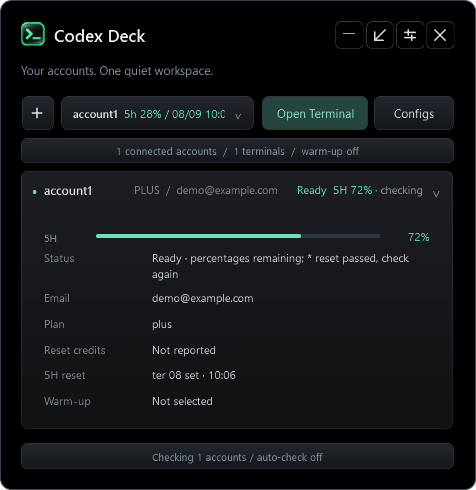
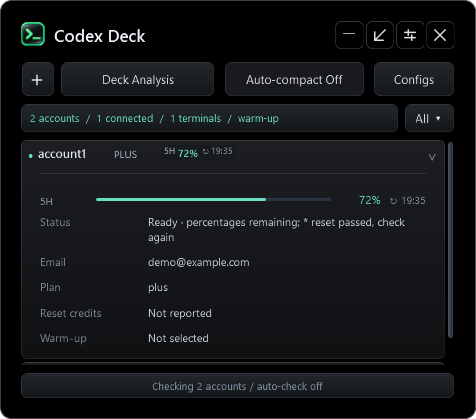
Refresh README and screenshots; refine desktop panel width

diff --git a/suite/Deck.Theme.xaml b/suite/Deck.Theme.xaml
@@ -1,4 +1,4 @@
-<Window xmlns="http://schemas.microsoft.com/winfx/2006/xaml/presentation" xmlns:x="http://schemas.microsoft.com/winfx/2006/xaml" Title="Codex Deck" Width="660" Height="540" MinWidth="300" MinHeight="150" WindowStyle="None" ResizeMode="CanResizeWithGrip" Background="#000000" Foreground="#EDF1F7" FontFamily="Segoe UI" FontSize="12" WindowStartupLocation="CenterScreen" UseLayoutRounding="True" SnapsToDevicePixels="True" TextOptions.TextFormattingMode="Display">
+<Window xmlns="http://schemas.microsoft.com/winfx/2006/xaml/presentation" xmlns:x="http://schemas.microsoft.com/winfx/2006/xaml" Title="Codex Deck" Width="660" Height="540" MinWidth="400" MinHeight="150" WindowStyle="None" ResizeMode="CanResizeWithGrip" Background="#000000" Foreground="#EDF1F7" FontFamily="Segoe UI" FontSize="12" WindowStartupLocation="CenterScreen" UseLayoutRounding="True" SnapsToDevicePixels="True" TextOptions.TextFormattingMode="Display">
  <Window.Resources>
   <Style TargetType="ContextMenu"><Setter Property="Background" Value="#141619"/><Setter Property="Foreground" Value="#E4E7EC"/><Setter Property="BorderBrush" Value="#363A41"/><Setter Property="BorderThickness" Value="1"/><Setter Property="Padding" Value="4"/><Setter Property="Template"><Setter.Value><ControlTemplate TargetType="ContextMenu"><Border Background="{TemplateBinding Background}" BorderBrush="{TemplateBinding BorderBrush}" BorderThickness="1" CornerRadius="7" Padding="{TemplateBinding Padding}"><StackPanel IsItemsHost="True"/></Border></ControlTemplate></Setter.Value></Setter></Style>
   <Style TargetType="MenuItem"><Setter Property="Foreground" Value="#E4E7EC"/><Setter Property="Padding" Value="12,9"/><Setter Property="Cursor" Value="Hand"/><Setter Property="Template"><Setter.Value><ControlTemplate TargetType="MenuItem"><Border x:Name="Surface" Background="Transparent" CornerRadius="4" Padding="{TemplateBinding Padding}"><ContentPresenter ContentSource="Header"/></Border><ControlTemplate.Triggers><Trigger Property="IsHighlighted" Value="True"><Setter TargetName="Surface" Property="Background" Value="#2C333C"/></Trigger><Trigger Property="IsEnabled" Value="False"><Setter Property="Opacity" Value="0.4"/></Trigger></ControlTemplate.Triggers></ControlTemplate></Setter.Value></Setter></Style>
@@ -29,7 +29,7 @@
     <StackPanel Orientation="Horizontal" VerticalAlignment="Center"><Image x:Name="AppLogo" Width="24" Height="24" Margin="0,0,9,0" RenderOptions.BitmapScalingMode="HighQuality"/><TextBlock x:Name="Brand" Text="Codex Deck" FontSize="17" FontWeight="SemiBold" VerticalAlignment="Center"/></StackPanel>
     <StackPanel Orientation="Horizontal" Grid.Column="1"><Button x:Name="MinimizeButton" Style="{StaticResource IconButton}" ToolTip="Minimize"><Path Width="12" Height="1" Stroke="#DDE2E7" StrokeThickness="1.5" Data="M 0,0 L 12,0"/></Button><Button x:Name="ModeButton" Style="{StaticResource IconButton}" ToolTip="Switch view"><Path Width="12" Height="12" Stretch="Fill" Stroke="#DDE2E7" StrokeThickness="1.5" StrokeStartLineCap="Round" StrokeEndLineCap="Round" Data="M 1,11 L 11,1 M 3,1 L 11,1 L 11,9"/></Button><Button x:Name="SettingsButton" Style="{StaticResource IconButton}" ToolTip="Settings"><Path Width="12" Height="12" Stretch="Fill" Stroke="#DDE2E7" StrokeThickness="1.5" StrokeStartLineCap="Round" StrokeEndLineCap="Round" Data="M 0,3 L 12,3 M 0,9 L 12,9 M 4,0 L 4,6 M 8,6 L 8,12"/></Button><Button x:Name="CloseButton" Style="{StaticResource IconButton}" ToolTip="Close to tray"><Path Width="12" Height="12" Stretch="Fill" Stroke="#DDE2E7" StrokeThickness="1.5" StrokeStartLineCap="Round" StrokeEndLineCap="Round" Data="M 1,1 L 11,11 M 11,1 L 1,11"/></Button></StackPanel>
    </Grid>
-   <Grid x:Name="LaunchBar" Margin="0,0,0,8"><Grid.ColumnDefinitions><ColumnDefinition Width="40"/><ColumnDefinition/><ColumnDefinition Width="154"/><ColumnDefinition Width="80"/></Grid.ColumnDefinitions><Button x:Name="NewButton" FontSize="23" Padding="0" Width="32" Height="34" VerticalAlignment="Center" ToolTip="New account"><Path Width="12" Height="12" Stretch="Fill" Stroke="#DDE2E7" StrokeThickness="1.5" Data="M 6,0 L 6,12 M 0,6 L 12,6"/></Button><Button x:Name="EfficiencyButton" Grid.Column="1" Content="Deck Analysis" ToolTip="Independent local efficiency analysis"/><Button x:Name="AutoCompactButton" Grid.Column="2" Content="Auto-compact Off" ToolTip="Enable auto-compaction for terminals opened next"/><Button x:Name="ConfigButton" Grid.Column="3" Content="Configs" Margin="0"/><ComboBox x:Name="AccountPicker" Visibility="Collapsed" Width="0" Height="0"/></Grid>
+   <Grid x:Name="LaunchBar" Margin="0,0,0,8"><Grid.ColumnDefinitions><ColumnDefinition Width="40"/><ColumnDefinition/><ColumnDefinition Width="154"/><ColumnDefinition Width="80"/></Grid.ColumnDefinitions><Button x:Name="NewButton" FontSize="23" Padding="0" Width="32" Height="34" VerticalAlignment="Center" ToolTip="New account"><Path Width="12" Height="12" Stretch="Fill" Stroke="#DDE2E7" StrokeThickness="1.5" Data="M 6,0 L 6,12 M 0,6 L 12,6"/></Button><Button x:Name="EfficiencyButton" Grid.Column="1" Content="Deck Analysis" ToolTip="Independent local efficiency analysis"/><Button x:Name="AutoCompactButton" Grid.Column="2" Content="Auto-compact Off" Margin="4,0,10,0" ToolTip="Enable auto-compaction for terminals opened next"/><Button x:Name="ConfigButton" Grid.Column="3" Content="Configs" Margin="0"/><ComboBox x:Name="AccountPicker" Visibility="Collapsed" Width="0" Height="0"/></Grid>
    <Grid Margin="0,0,0,8"><Grid.ColumnDefinitions><ColumnDefinition Width="*"/><ColumnDefinition Width="Auto"/></Grid.ColumnDefinitions><Button x:Name="SummaryButton" Padding="8,5" Margin="0,0,6,0" HorizontalContentAlignment="Stretch"><Grid x:Name="SummaryViewport" MinHeight="14" ClipToBounds="True"><TextBlock x:Name="Summary" HorizontalAlignment="Left" Foreground="#8493AA" FontSize="10" TextWrapping="NoWrap"><TextBlock.RenderTransform><TranslateTransform/></TextBlock.RenderTransform></TextBlock><TextBlock x:Name="SummaryEllipsis" Text="…" HorizontalAlignment="Right" Background="#181A1D" Foreground="#8493AA" Visibility="Collapsed"/></Grid></Button><Button x:Name="FilterButton" Grid.Column="1" Content="All ▾" Padding="10,5" Margin="0" ToolTip="Filter visible accounts by plan"/></Grid>
   </StackPanel>
   <Button x:Name="StatusButton" DockPanel.Dock="Bottom" Padding="8,5" Margin="0,8,0,0"><TextBlock x:Name="StatusLine" FontSize="10" Foreground="#8493AA" TextAlignment="Center"/></Button>

diff --git a/README.md b/README.md
@@ -2,8 +2,8 @@
   <img src="suite/deck/assets/codex-deck.png" width="88" alt="Codex Deck">
 </p>
 <h1 align="center">Codex Deck</h1>
-<p align="center"><strong>One command. Every account.</strong><br>
-A terminal dashboard and desktop companion for multiple Codex CLI accounts on Windows.</p>
+<p align="center"><strong>Your Codex CLI accounts, usage, and conversations in one place.</strong><br>
+A Windows terminal dashboard and desktop companion for an existing Codex CLI installation.</p>
 <p align="center">
   <a href="https://github.com/xtremexq/CodexDeck/actions/workflows/test.yml"><img src="https://github.com/xtremexq/CodexDeck/actions/workflows/test.yml/badge.svg" alt="Windows checks"></a>
   <img src="https://img.shields.io/badge/Windows-PowerShell%205.1-0078D4" alt="Windows PowerShell 5.1">
@@ -11,23 +11,21 @@ A terminal dashboard and desktop companion for multiple Codex CLI accounts on Wi
 </p>
 <p align="center"><a href="#install">Install</a> · <a href="#terminal-dashboard">Terminal</a> · <a href="#desktop-companion">Desktop</a> · <a href="#commands">Commands</a> · <a href="#help">Help</a></p>
 
-<p align="center"><img src="docs/terminal.png" width="1040" alt="Terminal dashboard showing accounts, remaining quota bars, reset times, sessions and keyboard shortcuts"></p>
+<p align="center"><img src="docs/terminal.png" width="1040" alt="Synthetic Codex Deck terminal dashboard with five profiles, quota bars, reset times, and keyboard shortcuts"></p>
+<p align="center"><em>Terminal dashboard · synthetic example accounts</em></p>
 
-## Your accounts, together
+## What Deck adds
 
-New accounts remain isolated by default. The first-listed **pool** environment can use your selected accounts' quotas while keeping one Codex home. Open **Settings > Environments** to configure membership and explicitly share skills, memory files, instructions or individual MCP definitions between selected entries. **Settings > Skills** manages Deck-provided workflows that are globally available to accounts and pools without merging their private skill folders. See [environments, Deck skills and selective sharing](docs/ENVIRONMENTS.md) for details.
+- **See usage without hopping between accounts.** `codex-auth` opens a keyboard-driven dashboard with cached quota, reset, and session data. `codex-deck` opens a desktop panel or floating widget. Refresh on demand, or opt into desktop polling.
+- **Keep accounts separate.** Each profile gets its own Codex home, sign-in, configuration, and history. A pool can use quotas from accounts you choose while keeping one environment; sharing skills, memories, instructions, or MCP definitions is explicit.
+- **Stay in control when a limit is reached.** Use `!account` to change the active account during a conversation. Optional automatic failover retries supported quota-rejected requests with another account in your selected pool. [How failover works and where it stops](docs/ACCOUNT-TOOLS.md#live-failover-opt-in).
+- **Manage the conversation as it runs.** Optional live context inspection lets you review and edit the next request. Auto-compaction, local efficiency analytics, and `!delay` / `!schedule` are available when you need them.
+- **Add only the extras you choose.** Warm-up, integrations, and an installable skill catalog are opt-in. Warm-up sends real requests and consumes quota.
 
-**Skill catalog:** Settings > Integrations can install or update the Agentic Awesome Skills index. Settings > Skills then searches it and installs only chosen skills into codex-auth accounts and pools. Three UIZZE UI skills are included. The CLI also supports `deck-skills search`, `show`, `install`, `refresh`, and `update`. See [skills and catalog](docs/SKILL-CATALOG.md).
+Deck is [MIT-licensed](LICENSE), free, and open source. There is no paid tier. It uses your separately installed Codex CLI and does not replace or patch it.
 
-Run **`codex-auth`** to see your local accounts and their cached usage immediately. Check fresh limits in the background, find the profile you need, and launch Codex from the same terminal. Keep the floating desktop widget nearby when you want usage visible while you work.
-
-| Terminal dashboard | Desktop companion |
-| --- | --- |
-| Search and navigate accounts with the keyboard | Switch between a control panel and floating widget |
-| See quota bars, plans, reset times and attached sessions | Keep usage nearby with tray access and optional always-on-top |
-| Refresh one account or queue every account | Run manual checks or enable automatic polling |
-| Launch Codex, log in, or create a profile | Choose a launch folder and enable Deck skills per account or pool |
-| Print a cached snapshot for scripts | Configure optional, quota-consuming warm-up requests |
+<p align="center"><img src="docs/desktop-preview.png" width="476" alt="Synthetic Codex Deck desktop panel with account usage, Deck Analysis, and auto-compaction controls"></p>
+<p align="center"><em>Desktop panel · synthetic example account</em></p>
 
 ## Less account juggling. More time to build.
 
@@ -45,7 +43,7 @@ Always optional; Deck is free and open source.
 
 **Requires Windows, Windows PowerShell 5.1, and Codex CLI available as `codex`.** The desktop companion uses WPF and the Windows system tray. Linux and macOS are not supported. No administrator account is required.
 
-Download **[CodexDeck-1.8.0.zip](https://github.com/xtremexq/CodexDeck/releases/download/v1.8.0/CodexDeck-1.8.0.zip)** from [the latest release](https://github.com/xtremexq/CodexDeck/releases/latest), extract it, then run the installer in that folder:
+Download the ZIP asset from [the latest release](https://github.com/xtremexq/CodexDeck/releases/latest), extract it, then run the installer in that folder:
 
 ```powershell
 powershell.exe -NoProfile -ExecutionPolicy Bypass -File .\Install-CodexDeck.ps1
@@ -69,7 +67,13 @@ codex-auth
 
 Press **N** to create a profile and sign in. Already have local profiles under `.codex-loop/accounts`? They appear automatically. You can also create or open one directly with `codex-auth account1`.
 
-The installer adds command wrappers to your user PATH and preserves existing account data. Codex CLI is installed separately. The execution-policy flag applies only to the installer process.
+The installer adds command wrappers to your user PATH and preserves existing account data. Codex CLI is installed separately and is not modified. The execution-policy flag applies only to the installer process.
+
+## Accounts, pools, and skills
+
+New accounts remain isolated by default. The default **pool** environment can use your selected accounts' quotas while keeping one Codex home. Open **Settings → Environments** to configure membership and explicitly share skills, memory files, instructions, or individual MCP definitions between selected entries. **Settings → Skills** manages Deck-provided workflows without merging private skill folders. See [environments and selective sharing](docs/ENVIRONMENTS.md).
+
+For optional skills, **Settings → Integrations** can install the Agentic Awesome Skills catalog index. **Settings → Skills** then lets you search it and install only chosen skills. Three UIZZE UI skills are included; the CLI also supports `deck-skills search`, `show`, `install`, `refresh`, and `update`. See [skills and catalog](docs/SKILL-CATALOG.md).
 
 ## Terminal dashboard
 
@@ -80,14 +84,19 @@ The installer adds command wrappers to your user PATH and preserves existing acc
 | **↑ / ↓** | Select an account |
 | **Page Up / Page Down**, **Home / End** | Navigate a longer list |
 | **Enter** | Launch Codex; return to the dashboard when it exits |
+| **B** | Select the best account with recently checked usable quota |
 | **C** | Toggle auto-compaction; hold **C** to adjust its threshold with ↑/↓ and Enter |
 | **R** | Refresh the selected account |
-| **A** | Queue fresh checks for every account |
+| **A** | Queue fresh checks for signed-in accounts |
 | **/** | Search account names |
+| **H** | Browse and resume local sessions |
+| **F2** | Rename the selected account |
 | **L** | Log in to the selected account |
 | **N** | Create a new profile and log in |
 | **D** | Open the desktop companion |
+| **S** | Open desktop Settings |
 | **Y** | Open Analytics |
+| **U / T / W / P** | Run a warm-up, set daily times, select an account, or pause warm-ups |
 | **G** | Edit rules that apply globally |
 | **I** | Read or edit the selected account or pool's global `AGENTS.md` instructions |
 | **E** | Read or edit the selected account or pool's memory files |
@@ -98,7 +107,7 @@ The installer adds command wrappers to your user PATH and preserves existing acc
 
 Cached usage appears immediately and opening the dashboard performs no account checks. Press **R** to refresh the selected signed-in account or **A** to queue all signed-in accounts, with up to three checks running at once. Run `codex-auth -a` to open the dashboard and queue that same all-account refresh immediately; `-a` is only accepted with the otherwise plain command. Checks stay in the background and do not block navigation. Opening the dashboard also does not send a warm-up prompt.
 
-**Settings → Appearance → Codex-auth dashboard theme** offers five layouts. **Default** keeps the original dashboard; **Focus** emphasizes the selected account; **Cards** shows compact quota cards; **Ledger** compares accounts in a table; **Split** places the account roster beside its details. The four new layouts group shortcuts by task. Changing the setting updates an open dashboard after its next settings refresh.
+**Settings → General → Codex-auth dashboard theme** offers five layouts. **Default** keeps the original dashboard; **Focus** emphasizes the selected account; **Cards** shows compact quota cards; **Ledger** compares accounts in a table; **Split** places the account roster beside its details. The four additional layouts group shortcuts by task. Changing the setting updates an open dashboard after its next settings refresh.
 
 **Bars show quota remaining.** Primary is the five-hour window, or another plan-specific window such as a free account's longer allowance. Weekly is shown separately when available. `?` means the value is unknown; it does not mean zero. Reset timestamps use your local time. **Reset passed** means the displayed value needs a fresh check.
 
@@ -108,11 +117,9 @@ For a non-interactive view, use **`codex-auth status`**. It prints cached data w
 
 Auto-compaction is opt-in. Press **C** before entering an account or pool, or click **Auto-compact** in the desktop panel; both controls share the same saved launch state and update one another while open. The choice applies to terminals opened next, not conversations already running. You can also run `codex-auth account16 -AutoCompact` or `codex-auth pool -AutoCompact` directly. Hold **C** in the dashboard to focus the saved threshold, adjust it by 5% with **↑/↓**, and press **Enter** to save it. For a one-time command-line override, include the percent sign: `codex-auth account16 -AutoCompact 50%`. The threshold is the percentage of model context still free, so the 55% default triggers when 45% is used; a 75% override triggers when 25% is used.
 
-**Settings → Compaction** selects the implementation. **Native** is the default: Deck converts the free-context percentage into Codex's native token threshold for the selected model's effective context window, then launches the normal Codex TUI. It works through ordinary accounts, pools, configured quota failover, manual `!account` switching, resumed conversations and one-shot `exec` commands because the setting travels with the complete Deck launch. **Custom** preserves Deck's existing observer workflow: when context reaches the threshold, Deck requests a visible `DECK_HANDOFF`, compacts the thread, and sends the handoff back quoted with “Please go on.” Its multiline handoff setting appears only while Custom is selected. `-Direct` still keeps an exact account without routing.
+**Settings → Advanced → Compaction** selects the implementation. **Native** is the default: Deck converts the free-context percentage into Codex's native token threshold for the selected model's effective context window, then launches the normal Codex TUI. It works through ordinary accounts, pools, configured quota failover, manual `!account` switching, resumed conversations and one-shot `exec` commands because the setting travels with the complete Deck launch. **Custom** preserves Deck's existing observer workflow: when context reaches the threshold, Deck requests a visible `DECK_HANDOFF`, compacts the thread, and sends the handoff back quoted with “Please go on.” Its multiline handoff setting appears only while Custom is selected. `-Direct` still keeps an exact account without routing.
 
 ## Desktop companion
-
-<p align="center"><img src="docs/desktop-preview.png" width="476" alt="Codex Deck desktop control panel with an account and expanded usage details"></p>
 
 Run **`codex-deck`**, or press **D** in the terminal dashboard.
 
@@ -126,11 +133,11 @@ Run **`codex-deck`**, or press **D** in the terminal dashboard.
 
 Desktop automatic checks are off by default. Enable them in Settings if you want continued polling. Terminal startup checks and desktop polling are separate controls.
 
-### Trajectory and live context control (opt-in)
+### Live context and trajectory (opt-in)
 
-Enable **Trajectory** in Settings to get a fast local timeline of sessions across Deck accounts: requests, messages, tool calls and results, token-usage records, compactions, subagent/session metadata, and live sessions. You can open it from the tray menu or the terminal dashboard's **V** shortcut. The left menu orders sessions by most recent rollout file update across all accounts and refreshes that order every 30 seconds while open. The newest managed conversation is selected first, live context refreshes automatically, active rollouts are tailed in bounded pages, and raw paths are not exposed to the browser frontend.
+Enable **Live Context viewer** under **Settings → Advanced → Live Context Manager** to get a local trajectory of sessions across Deck accounts: requests, messages, tool calls and results, token-usage records, compactions, subagent/session metadata, and live sessions. Open it from the tray's **Open Live Context** action. The left menu orders sessions by most recent rollout file update across all accounts and refreshes that order every 30 seconds while open. The newest managed conversation is selected first, live context refreshes automatically, active rollouts are tailed in bounded pages, and raw paths are not exposed to the browser frontend.
 
-The **Live context manager** is a second opt-in inside the Trajectory settings. Its separate **Automatically open Live Context when opening accounts** setting is off by default. Enable it to open a slim companion for each interactive account or pool launch; use `!context` in a managed Codex conversation to open that terminal's companion on demand. Each companion is bound to its terminal's unique session marker and routing proxy. It shows the model request seen by Deck as individual instruction, tool-definition, message, tool-call, and tool-result cards from the first request onward. Click a card's preview to read its full text. Use the red **−** to suppress a card, edit or trim its visible text, restore one change or all changes, search/filter the window, and watch the next-request token estimate update. Tool calls and outputs are paired by default, while system, developer, tool definitions, reasoning, and encrypted items are protected unless the advanced override is explicitly enabled. Encrypted reasoning has no available plaintext, and a request that references server-side history cannot reveal that earlier content; the companion labels these limits. The larger Trajectory studio remains one click away for the emitted timeline through the final response.
+The **Live context manager** is a second opt-in in the same Advanced section. Its separate **Automatically open Live Context when opening accounts** setting is off by default. Enable it to open a slim companion for each interactive account or pool launch; use `!context` in a managed Codex conversation to open that terminal's companion on demand. Each companion is bound to its terminal's unique session marker and routing proxy. It shows the model request seen by Deck as individual instruction, tool-definition, message, tool-call, and tool-result cards from the first request onward. Click a card's preview to read its full text. Use the red **−** to suppress a card, edit or trim its visible text, restore one change or all changes, search/filter the window, and watch the next-request token estimate update. Tool calls and outputs are paired by default, while system, developer, tool definitions, reasoning, and encrypted items are protected unless the advanced override is explicitly enabled. Encrypted reasoning has no available plaintext, and a request that references server-side history cannot reveal that earlier content; the companion labels these limits. The larger Trajectory studio remains one click away for the emitted timeline through the final response.
 
 The companion is deliberately lightweight: it reads the live proxy snapshot instead of rescanning rollout history, lazy-renders long card lists, and polls a tiny revision/status response when nothing changed. A full context payload and DOM update happen only for a new model request or one of your edits. **Follow new** in its footer scrolls to new context items by default and can be switched off. The compact status area shows estimated free model context and this terminal's auto-compact mode above the quota divider, followed by cached primary and secondary quota use. Token figures are rough text/JSON size estimates, not exact model usage.
 
@@ -140,7 +147,7 @@ Context overlays apply at the shared request boundary, so they remain active acr
 
 ### Efficiency analytics (separate feature)
 
-**Efficiency analytics is an independent feature**, enabled by default but separately switchable in Settings. Open it with **Deck Analysis** in the panel, the tray menu, or **Y** in the terminal dashboard. When Trajectory is disabled, interactive `codex-auth` launches Efficiency automatically. Its PrismoDev-inspired analysis scans the 1,000 most recently updated local rollouts across all accounts by default; the limit remains configurable from 10 to 5,000 and a notice appears in the panel when reached. It reports exact token totals where Codex recorded them, cache use, repeated commands and paths, oversized tool results, tool frequency, compactions, and token distribution by account, project, and model. It then ranks concrete opportunities to reduce repeated discovery or noisy output.
+**Efficiency analytics is an independent feature**, enabled by default but separately switchable under **Settings → Advanced → Analytics**. Open it with **Deck Analysis** in the panel, the tray menu, or **Y** in the terminal dashboard. When Trajectory is disabled, interactive `codex-auth` launches Efficiency automatically. It scans the 1,000 most recently updated local rollouts across all accounts by default; the limit remains configurable from 10 to 5,000 and a notice appears in the panel when reached. It reports exact token totals where Codex recorded them, cache use, repeated commands and paths, oversized tool results, tool frequency, compactions, and token distribution by account, project, and model. It then ranks concrete opportunities to reduce repeated discovery or noisy output.
 
 The analytics feature does not enable, depend on, or modify Trajectory or the context manager. The two additions share only a low-level local rollout parser/index so Deck does not perform the same filesystem work twice.
 
@@ -178,20 +185,20 @@ codex-check -Json                # Machine-readable usage report
 codex-check -NoColor             # Plain-text usage report
 ```
 
-Inside any signed-in `codex-auth` conversation, use Codex's local shell
-prefix: `!account`, `!pool`, `!usage`, `!delay`, `!schedule`, `!check`, `!context`, or `!deck`. These commands run locally
-and do not submit a prompt or consume a model turn. Account first lets you choose
-the session's selectable accounts or, in a named environment, its current pool
-by printing numbered lists. Pool prints the current-pool list directly. Switch with a second local
-command such as `!pool 2` or `!pool account7`. Usage checks
-only the account currently routing the session; Check runs the complete local
-`codex-check` report, and Deck opens the desktop companion.
-Use `!delay 15m go on` to queue `go on` into the same live conversation after 15 minutes. The terminal stays open and usable while its hidden timer waits. Use `!schedule 6h go on` to create a one-time Windows task that opens a new visible PowerShell terminal, resumes this conversation under its owning account, and submits `go on`. The task removes itself when it runs. Durations accept whole-number seconds, minutes, hours, or days (`600s`, `10m`, `6h`, `1d`); quoted messages can include spaces. Scheduling requires a signed-in Windows session at delivery time. The original working folder and account must still exist.
-Codex does not expose a third-party bare-slash extension point, so these commands
-use `!` and cannot appear as `/account` entries in the built-in command menu.
-Ordinary launches use a manual-only loopback route so `!account` works even when
-automatic failover is Off. Their `CODEX_HOME`, saved conversation, and files stay
-with the account used to launch the session; only subsequent API requests switch.
+Inside a signed-in `codex-auth` conversation, Codex's local `!` shell prefix gives you these controls without submitting a model turn:
+
+| Command | Action |
+| --- | --- |
+| `!account`, then `!account account2` | List selectable accounts, then switch future requests to one |
+| `!pool`, then `!pool 2` | List the current pool and choose a member |
+| `!usage` / `!check` | Check the active account / run the complete `codex-check` report |
+| `!context` / `!deck` | Open the enabled live context companion / desktop panel |
+| `!delay 15m go on` | Send `go on` to this still-open conversation after 15 minutes |
+| `!schedule 6h go on` | Resume this conversation in a new visible terminal after six hours and send `go on` |
+
+Delayed messages require the current terminal to remain open. Scheduled messages use a one-time Windows task that removes itself after running; Windows must be signed in when it delivers, and the original account and working folder must still exist. Durations accept whole-number seconds, minutes, hours, or days (`600s`, `10m`, `6h`, `1d`); quote messages containing shell-sensitive characters. See [timed message details](docs/ACCOUNT-TOOLS.md#timed-local-messages).
+
+Codex does not expose a third-party bare-slash extension point, so these controls use `!` rather than appearing in the `/` menu. `!account` works even when automatic failover is off. The original account retains the conversation, `CODEX_HOME`, and files; only subsequent API requests switch routes.
 
 Each profile has a separate `CODEX_HOME`. New profiles can inherit local configuration, rules and skills; authentication remains separate. Deletion keeps a recovery copy and refuses an account with a tracked connected terminal.
 

diff --git a/CONTRIBUTING.md b/CONTRIBUTING.md
@@ -24,10 +24,17 @@ For changes to window lifetime, also run `powershell.exe -NoProfile -STA -File .
 Regenerate the desktop screenshot from the committed code using synthetic state:
 
 ```powershell
-powershell.exe -NoProfile -STA -ExecutionPolicy Bypass -File ./suite/Codex-Deck.ps1 -SmokeTest -PreviewMode Panel -PreviewExpanded -ScreenshotPath "$PWD/docs/panel.png"
+powershell.exe -NoProfile -STA -ExecutionPolicy Bypass -File ./suite/Codex-Deck.ps1 -SmokeTest -PreviewMode Panel -PreviewExpanded -PreviewWidth 476 -ScreenshotPath "$PWD/docs/desktop-preview.png"
+Copy-Item ./docs/desktop-preview.png ./docs/panel.png -Force
 ```
 
-`docs/terminal.png` is a synthetic rendering of `Get-DeckTerminalFrame` from `suite/Deck.Terminal.ps1`, with the frame's text and console colors. Keep its caption explicit about this being a rendered preview. Use example account identities and project paths only.
+Regenerate the terminal screenshot from the actual dashboard frame with example account data:
+
+```powershell
+powershell.exe -NoProfile -ExecutionPolicy Bypass -File ./docs/Render-TerminalPreview.ps1
+```
+
+Both README screenshots use synthetic identities and never read installed accounts. The terminal renderer uses `Get-DeckTerminalFrame` from `suite/Deck.Terminal.ps1` and its console colors. Keep captions explicit about the synthetic previews.
 
 `-Demo` opens a synthetic widget; add `-PreviewMode Panel` for the panel. Install the app for normal use rather than treating the source checkout as a portable installation.
 
